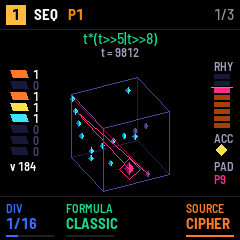
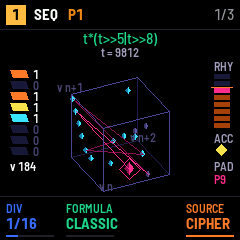
CIPHER, after review: LEN changed while playing keeps the formula's step 0 on the loop's start
With LEN, the formula's step is the sequencer's (k); FREE keeps its own count. The scene closes the loop (a point's
next bytes and the trail go round LEN), names its axes v n, v n+1, v n+2, and takes the note's or pad's name from
mv_name. The manual says PRESET leaves DENS alone. Screen reader words for v, t, -- and the axes.

diff --git a/app/scene_cipher.c b/app/scene_cipher.c
@@ -7,7 +7,7 @@
 #define CYV_CX 120.0f               /* the cube's centre in the scene area */
 #define CYV_CY 104.0f
 #define CYV_S 37.0f                 /* half its edge, in pixels */
-#define CYV_TRAIL 6
+#define CYV_TRAIL 6                 /* the steps the trail joins to the one playing */
 static const uint16_t CYV_YEL[3] = {RGB(0xff, 0xf6, 0xb0), RGB(0xf2, 0xe1, 0x4c), RGB(0x8a, 0x7a, 0x10)};
 static const uint16_t CYV_CYAN[3] = {RGB(0xc8, 0xf4, 0xff), RGB(0x3e, 0xe6, 0xff), RGB(0x1d, 0x7f, 0xa8)};
 static const uint16_t CYV_MUTE[3] = {RGB(0x9a, 0x94, 0xd0), RGB(0x60, 0x5a, 0xa0), RGB(0x3a, 0x35, 0x6a)};
@@ -29,7 +29,7 @@ static const char *const CYV_TEXT[CIPHER_N] = {
     "t|t%F|t%G", "t*(t>>A)^t>>B", "(t^t>>A)*(t>>B)", "(t*t>>A)&t>>B", "t*(t>>A)%H", "t>>A^t*B",
     "(t*(t>>A)|t>>B)^t>>C", "t*(t>>A^t>>B)&I"};
 
-static struct { uint32_t ms; } cyv;
+static struct { uint32_t ms; float ax[3], ay[3]; } cyv;   /* the axes' names' places, for the band */
 
 void cipher_enter(void) { cyv.ms = 0; }
 
@@ -82,13 +82,22 @@ static void cyv_gem(float x, float y, float r, const uint16_t *t, float z)
 /* the steps the points show: the loop (LEN), or in FREE the 48 steps of the window the step is in */
 static uint32_t cyv_len(const q_cipher *c) { return c->len ? c->len : 48u; }
 
+/* step s's point: its byte and the next two (with LEN, round the loop: the steps that will play), and whether it plays */
+static int cyv_point(const q_cipher *c, uint32_t s, float rot, float *x, float *y, float *d)
+{
+    uint32_t L = c->len;
+    int b0 = gen_cipher_byte(c, L ? s % L : s), b1 = gen_cipher_byte(c, L ? (s + 1) % L : s + 1);
+    int b2 = gen_cipher_byte(c, L ? (s + 2) % L : s + 2);
+    cyv_at((float)b0 / 127.5f - 1.0f, (float)b1 / 127.5f - 1.0f, (float)b2 / 127.5f - 1.0f, rot, x, y, d);
+    return b0 >> 5 < (c->dens * 8 + 63) / 127;
+}
+
 void cipher_frame(const q_ciview *v, uint32_t ms)
 {
     const q_cipher *c = &v->c;
     uint32_t L = cyv_len(c), base = v->cur - v->cur % L, i;
     /* the cube sways about its isometric view rather than turning round: face on, it would read as a flat square */
     float rot = 0.785f + 0.42f * fm_sinf((float)(ms % 24000u) * (6.2831853f / 24000.0f)), ex[8], ey[8], ed[8], far = -9.0f;
-    int thr = (c->dens * 8 + 63) / 127;
     cyv.ms = ms;
     p3d_begin();
     for (i = 0; i < 8; i++) {                   /* the cube's corners; the farthest one's three edges go under */
@@ -101,14 +110,16 @@ void cipher_frame(const q_ciview *v, uint32_t ms)
                 int back = ed[i] == far || ed[i | b] == far;
                 p3d_line(ex[i], ey[i], ex[i | b], ey[i | b], back ? -10.0f : 30.0f, 1, back ? CYV_BACK : CYV_FRONT);
             }
-    float tx[CYV_TRAIL + 1], ty[CYV_TRAIL + 1];
-    int nt = 0;
+    /* the axes' names, beyond the ends of the edges from the corner (0, 0, 0): v[n] along x, v[n+1] y, v[n+2] z */
+    for (i = 0; i < 3; i++) {
+        float x, y, d;
+        cyv_at(i == 0 ? 1.2f : -1.0f, i == 1 ? 1.2f : -1.0f, i == 2 ? 1.2f : -1.0f, rot, &x, &y, &d);
+        cyv.ax[i] = x, cyv.ay[i] = y < 34.0f ? 34.0f : y > 156.0f ? 156.0f : y;   /* clear of the top lines and the footer */
+    }
     for (i = 0; i < L; i++) {                   /* the points: nearer ones over farther ones */
         uint32_t s = base + i;
-        int b0 = gen_cipher_byte(c, s), b1 = gen_cipher_byte(c, s + 1), b2 = gen_cipher_byte(c, s + 2), on = b0 >> 5 < thr;
         float x, y, d;
-        cyv_at((float)b0 / 127.5f - 1.0f, (float)b1 / 127.5f - 1.0f, (float)b2 / 127.5f - 1.0f, rot, &x, &y, &d);
-        int cur = s == v->cur, hot = cur && on && v->playing;
+        int on = cyv_point(c, s, rot, &x, &y, &d), cur = s == v->cur, hot = cur && on && v->playing;
         cyv_gem(x, y, cur ? 6.5f : 3.6f, hot ? PINK3 : on ? CYV_CYAN : CYV_MUTE, 10.0f - d);
         if (cur) {                              /* the step playing, framed */
             float r = 10.5f;
@@ -116,11 +127,20 @@ void cipher_frame(const q_ciview *v, uint32_t ms)
             p3d_line(x, y - r, x + r, y, 20.0f, 1, f), p3d_line(x + r, y, x, y + r, 20.0f, 1, f);
             p3d_line(x, y + r, x - r, y, 20.0f, 1, f), p3d_line(x - r, y, x, y - r, 20.0f, 1, f);
         }
-        if (s + CYV_TRAIL >= v->cur && s <= v->cur && v->playing)
-            tx[nt] = x, ty[nt] = y, nt++;
     }
-    for (int k = 1; k < nt; k++)                /* the trail to the step playing, brighter towards it */
-        p3d_line(tx[k - 1], ty[k - 1], tx[k], ty[k], 15.0f, 1, k > nt - 3 ? PINK3[1] : PINK3[2]);
+    if (v->playing) {                           /* the trail of the last steps to the one playing, round the loop */
+        float px = 0, py = 0;
+        int have = 0;
+        for (int k = CYV_TRAIL; k >= 0; k--) {
+            float x, y, d;
+            if (!c->len && v->cur < (uint32_t)k)  /* FREE: no step before the first */
+                continue;
+            cyv_point(c, c->len ? (v->cur + c->len * 8u - (uint32_t)k) % c->len : v->cur - (uint32_t)k, rot, &x, &y, &d);
+            if (have)
+                p3d_line(px, py, x, y, 15.0f, 1, k < 2 ? PINK3[1] : PINK3[2]);
+            px = x, py = y, have = 1;
+        }
+    }
 }
 
 void cipher_band(const q_ciview *v, int32_t oy)
@@ -130,6 +150,9 @@ void cipher_band(const q_ciview *v, int32_t oy)
     int val = gen_cipher_byte(c, v->cur), thr = (c->dens * 8 + 63) / 127, on = v->playing && val >> 5 < thr, i;
     cv_rect(0, oy, 240, 166, RGB(0, 0, 0));
     p3d_draw(oy);
+    glo_text((int32_t)cyv.ax[0], oy + (int32_t)cyv.ay[0], &FONT_XS, "v n", CYV_DIM, 0);
+    glo_text((int32_t)cyv.ax[1], oy + (int32_t)cyv.ay[1], &FONT_XS, "v n+1", CYV_DIM, 0);
+    glo_text((int32_t)cyv.ax[2], oy + (int32_t)cyv.ay[2], &FONT_XS, "v n+2", CYV_DIM, 0);
     cyv_formula(c, b, b + sizeof b);            /* the formula and t, on top */
     const felucca_font_t *f = text_w(&FONT_S, b) <= 232 ? &FONT_S : &FONT_XS;
     glo_text(120, oy + 9, f, b, KGREEN[1], 0);

diff --git a/app/gen.c b/app/gen.c
@@ -801,14 +801,14 @@ void gen_cipher_preset(q_cipher *c, int formula)
 
 /* the byte decides the step: bits 5-7 against DENS (round(dens x 8 / 127) levels play), bit 4 the accent, bits 0-3
    the degree (a KIT: the pad) */
-static int cipher_step(q_gen *g, const q_project *p, int track, const q_pattern *pt, q_step *st)
+static int cipher_step(q_gen *g, const q_project *p, int track, const q_pattern *pt, int k, q_step *st)
 {
     const q_cipher *c = &pt->cipher;
-    if (c->len && g->cipher_n >= c->len)      /* LEN shortened while playing: back into the loop */
-        g->cipher_n %= c->len;
-    int v = gen_cipher_byte(c, g->cipher_n++);
-    if (c->len && g->cipher_n == c->len)
-        g->cipher_n = 0;
+    /* with LEN, the formula's step is the sequencer's (k: LEN changed while playing keeps step 0 on the loop's start);
+       in FREE, its own count runs on. cipher_n: the next step, for the scene */
+    uint32_t n = c->len ? (uint32_t)k % c->len : g->cipher_n;
+    int v = gen_cipher_byte(c, n);
+    g->cipher_n = c->len ? (n + 1) % c->len : n + 1;
     if ((v >> 5) >= (c->dens * 8 + 63) / 127)
         return 0;
     if (p->sound[track].model == M_KIT) {
@@ -921,6 +921,6 @@ int gen_step(q_gen *g, const q_project *p, int track, const q_pattern *pt, int k
     if (pt->src == SRC_TONNETZ) return tonnetz_step(g, p, track, pt, k, rng, st);
     if (pt->src == SRC_ORBITS) return orbits_step(g, p, track, pt, st);
     if (pt->src == SRC_MIMIC) return mimic_step(g, p, track, pt, st);
-    if (pt->src == SRC_CIPHER) return cipher_step(g, p, track, pt, st);
+    if (pt->src == SRC_CIPHER) return cipher_step(g, p, track, pt, k, st);
     return marbles_step(g, p, track, pt, rng, st);
 }

diff --git a/app/ui.c b/app/ui.c
@@ -3516,7 +3516,6 @@ void ui_frame(void)
                 miw.step_ms = 2500u * DIV96[t->div] / ui.p->tempo;
                 mimic_frame(&miw, now);
             } else if (v.scene.anim == 14) {
-                static const char *const PADS3[3] = {"BD", "SN", "HH"};
                 const q_pattern *t = pat();
                 uint32_t n, L;
                 if (fresh)
@@ -3525,14 +3524,10 @@ void ui_frame(void)
                 n = civ.playing ? audio_cipher(ui.track) : 0, L = t->cipher.len;
                 civ.cur = !civ.playing ? 0 : L ? (n + L - 1) % L : n ? n - 1 : 0;   /* the step played last */
                 {
-                    int val = gen_cipher_byte(&t->cipher, civ.cur), p = val & 15;
+                    int p = gen_cipher_byte(&t->cipher, civ.cur) & 15;
                     uint16_t sc = gen_scale(ui.p);
-                    if (!kit())
-                        note_name(gen_life_note(t->cipher.note, sc, ui.p->tonic, p * t->cipher.range * __builtin_popcount(sc) / 16), civ.name);
-                    else if (p < 3)
-                        civ.name[0] = PADS3[p][0], civ.name[1] = PADS3[p][1], civ.name[2] = 0;
-                    else
-                        civ.name[0] = 'P', int_text(p + 1, civ.name + 1);
+                    mv_name(kit() ? KIT_NOTE + p : gen_life_note(t->cipher.note, sc, ui.p->tonic, p * t->cipher.range * __builtin_popcount(sc) / 16),
+                            kit(), civ.name);
                 }
                 cipher_frame(&civ, now);
             } else if (v.scene.anim == 7) {

diff --git a/tests/unit/gen_test.c b/tests/unit/gen_test.c
@@ -1752,6 +1752,27 @@ static void cipher_loop(void)
     assert(G.cipher_n == 64 && gen_loop(pt) == 16);
 }
 
+/* LEN changed while playing: the formula's step follows the sequencer's (k), so step 0 stays on the loop's start */
+static void cipher_len_change_keeps_loop(void)
+{
+    q_pattern *pt = cipher_setup(8);
+    pt->cipher.dens = 127;
+    pt->cipher.len = 64;
+    q_step st, first; int acc;
+    played(pt, 0, &first, &acc);
+    for (int k = 1; k <= 40; k++) played(pt, k, &st, &acc);
+    pt->cipher.len = 16;                      /* the sequencer wraps: the next step is k 0 */
+    played(pt, 0, &st, &acc);
+    assert(st.note[0] == first.note[0] && G.cipher_n == 1);
+    pt->cipher.len = 0;                       /* FREE for 20 steps, then LEN 12 at k 4 */
+    for (int k = 0; k < 20; k++) played(pt, k % 16, &st, &acc);
+    pt->cipher.len = 12;
+    played(pt, 4, &st, &acc);
+    assert(st.note[0] == gen_life_note(pt->cipher.note, gen_scale(&P), P.tonic,
+                                       (gen_cipher_byte(&pt->cipher, 4) & 15) * pt->cipher.range * __builtin_popcount(gen_scale(&P)) / 16));
+    assert(G.cipher_n == 5);
+}
+
 int main(void)
 {
     cipher_matches_search();
@@ -1759,6 +1780,7 @@ int main(void)
     cipher_alive();
     cipher_decode();
     cipher_loop();
+    cipher_len_change_keeps_loop();
     marbles_gate_sets_len();
     grids_level_matches_step();
     corner_follows_node();

diff --git a/app/docs/source-cipher.md b/app/docs/source-cipher.md
@@ -61,8 +61,9 @@ The bottom four bits pick the pad, so one formula makes a whole beat; NOTE is go
 ## PRESET
 
 PRESET steps through the 32 formulas, on any of the three pages. Each comes with its own A, B, C, START and SPEED,
-chosen so that it plays a living pattern; DENS, LEN, NOTE and RANGE stay as they are. When a setting of your own goes
-flat or silent, PRESET once forward and once back brings the formula's back.
+chosen so that it plays a living pattern; DENS, LEN, NOTE and RANGE stay as they are. When A, B, C, START or SPEED of
+your own go flat, PRESET once forward and once back brings the formula's back. PRESET leaves DENS alone: below 8,
+no step plays, whatever the formula.
 
 ## Recipes
 
